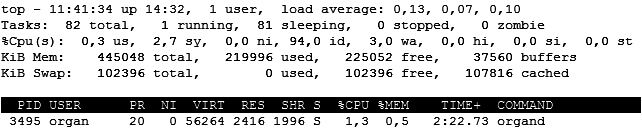
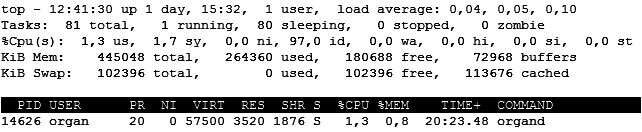
Captura de Top con 39 horas de funcionamiento.

diff --git a/report/subdocs/capitulo6.tex b/report/subdocs/capitulo6.tex
@@ -143,7 +143,7 @@ Si eventualmente llegan menos \textit{bytes} de los 10 previstos, el programa si
 
 \subsubsection{Funcionamiento continuado}
 
-Es importante comprobar que el demonio es estable y se mantiene activo durante un tiempo considerable. Para ello, hemos dejado el sistema reproduciendo una lista repetidamente durante 14:30 horas, manteniendo el funcionamiento y el uso de memoria.
+Es importante comprobar que el demonio es estable y se mantiene activo durante un tiempo considerable. Para ello, hemos dejado el sistema reproduciendo una lista repetidamente durante casi 40 horas, manteniendo el funcionamiento y el uso de memoria.
 
 \smallskip
 
